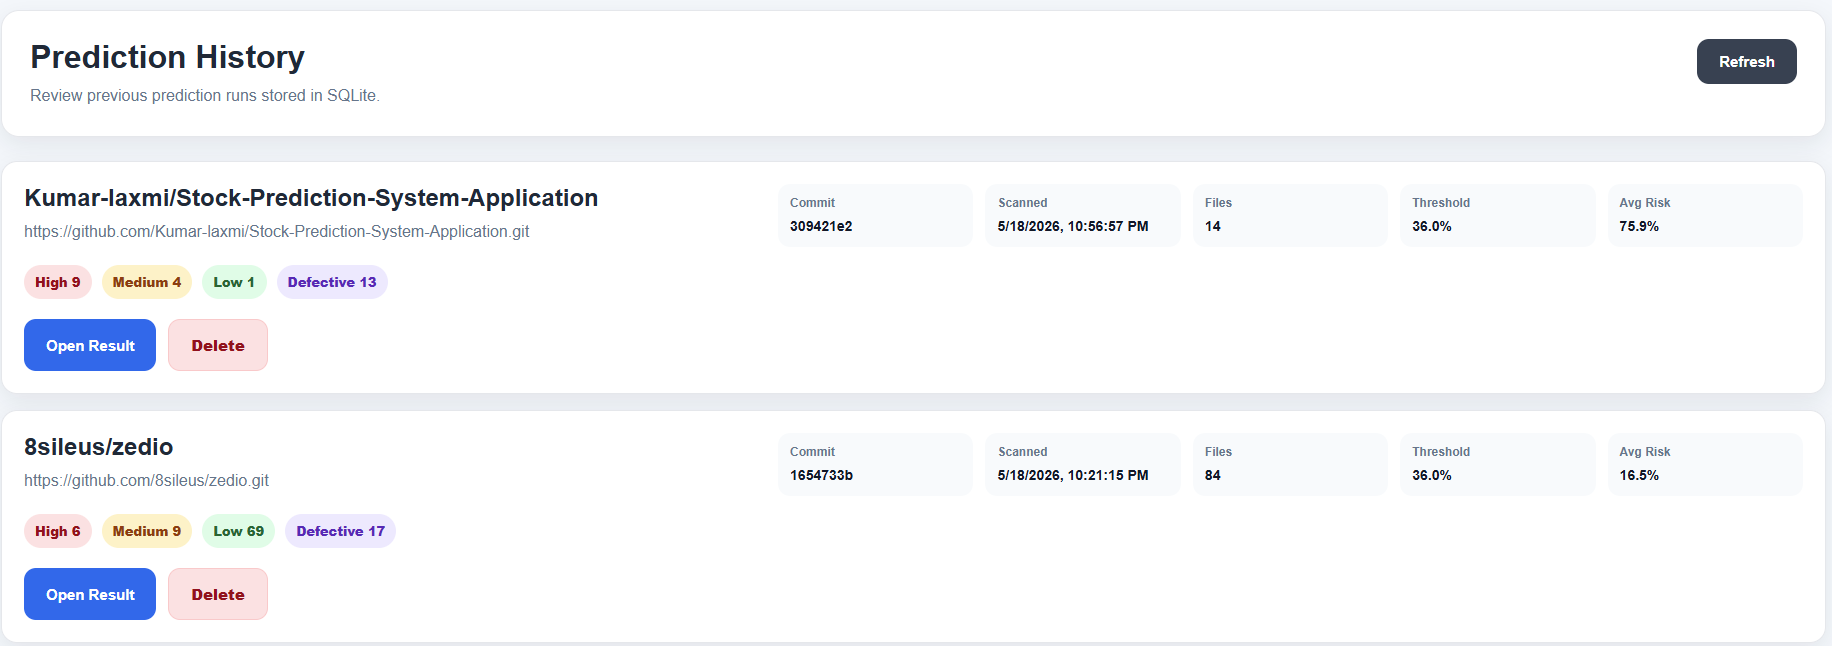
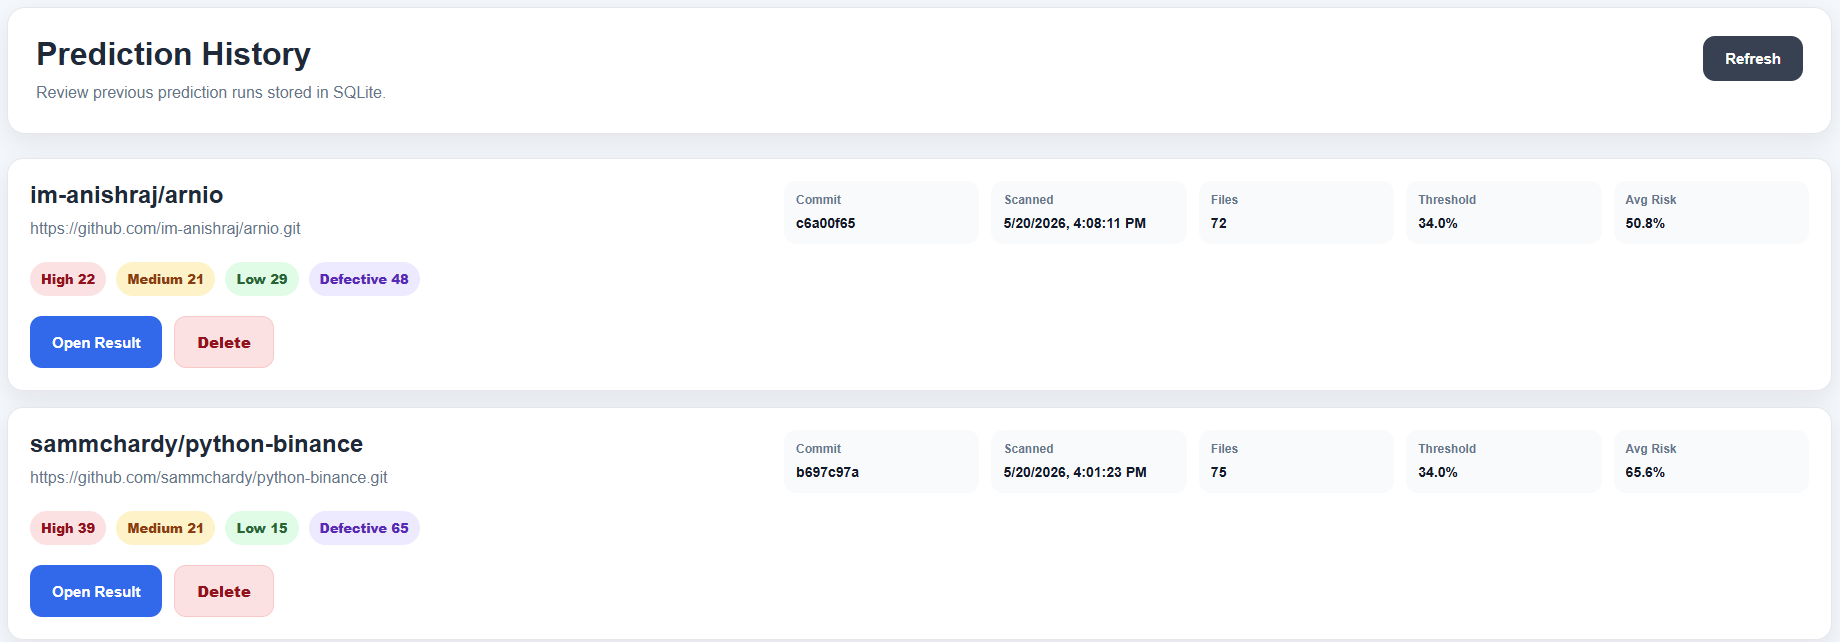
Update Readme

diff --git a/README.md b/README.md
@@ -35,7 +35,8 @@ explanation before the user starts.
 
 The repository input page lets the user enter a GitHub repository URL, choose a
 branch or tag, select a commit, and configure prediction sensitivity. It also
-explains the normal cached clone mode and the request-only PAT clone mode.
+explains the default Personal Access Token request mode and the optional local
+cache mode.
 
 <p align="center">
   <img src="readme-assets/InputPage.png" alt="Repository input page" width="900" />
@@ -74,11 +75,11 @@ results without immediately rerunning the same analysis.
 
 | Step | Description |
 | --- | --- |
-| 1. Repository input | Accepts a GitHub repository URL and loads branches, tags, and commits. |
+| 1. Repository input | Accepts a GitHub repository URL and loads branches, tags, and commits. Branches and tags use Git remote lookup, while commit pages are loaded through the GitHub API for faster pagination. |
 | 2. Commit selection | Lets the user choose the exact commit to analyze. |
-| 3. Metric extraction | Extracts static code metrics and commit-history process metrics from supported files. |
+| 3. Metric extraction | Scans all supported Java, Python, and C++ files in the selected commit, including potential test files. |
 | 4. ML prediction | Predicts file-level defect risk using the trained model. |
-| 5. Explanation | Shows important metric values and plain-language reasoning for each file. |
+| 5. Explanation | Shows SHAP-based metric signals, positive/negative contribution direction, confidence notes, and plain-language reasoning for each file. |
 | 6. Dashboard review | Summarizes risk distribution, highest-risk files, folders, and language-level trends. |
 | 7. History and export | Saves completed runs to SQLite and exports selected results as CSV or PDF. |
 
@@ -89,18 +90,26 @@ the full workflow from repository input to model-backed decision support.
 
 - GitHub repository, branch, tag, and commit selection.
 - File-level defect prediction for Java, Python, and C++.
+- GitHub API commit pagination so large repositories do not need to be cloned
+  just to list commits.
 - Prediction progress status while the backend is analyzing a commit.
 - Configurable prediction sensitivity for adjusting the defect cutoff.
-- Optional PAT request mode for users who do not want a reusable repository
-  mirror cache.
+- Default Personal Access Token request mode for GitHub API requests and
+  temporary public repository cloning without keeping a reusable mirror cache in
+  the user's local machine.
+- Optional local cache mode that stores a reusable mirror cache in the user's
+  local machine for faster repeated repository operations.
 - Risk dashboard with summary cards, charts, high-risk files, and language
   breakdowns.
+- Normal code files and potential test files are separated in the prediction
+  result page. Potential test files are still predicted, but displayed in their
+  own section for clearer review.
 - Search and filtering by file path, language, risk level, prediction label, and
   probability range.
 - CSV and PDF report export for selected prediction rows.
 - Prediction history stored in SQLite.
 - "How It Works" page for non-ML developers and project evaluators.
-- Backend repository caching to reduce repeated GitHub operations.
+- Confidence warnings when one SHAP signal dominates a prediction explanation.
 - Training scripts for building, appending, analyzing, and retraining the model.
 
 ## Tech Stack
@@ -238,6 +247,19 @@ https://github.com/owner/repository.git
 The application also accepts common GitHub HTTPS repository URLs without `.git`
 and normalizes them internally.
 
+## Repository Access Modes
+
+The repository input page supports two access modes.
+
+| Mode | Description | Local storage behavior |
+| --- | --- | --- |
+| Personal Token request mode | Default mode. The user provides a GitHub Personal Access Token for GitHub API commit loading and temporary public repository cloning. This version does not provide private repository prediction. | The repository is cloned into a temporary worktree for prediction, then cleaned after use. The token is not saved in prediction history or returned in API responses. |
+| Local cache mode | Optional mode for repeated runs on the same repository. | A reusable mirror cache is stored in the user's local machine under `%TEMP%\sdp_github_temp_repos\repo_cache`. Temporary prediction worktrees are stored under `%TEMP%\sdp_github_temp_repos\worktrees` and cleaned after prediction. |
+
+Branches and tags are loaded with Git remote lookup. Commit lists are loaded
+through the GitHub API with pagination, so large repositories do not need to be
+cloned just to display commit pages.
+
 ## Supported Languages
 
 The live prediction extractor scans these source files:
@@ -266,6 +288,28 @@ The model uses a shared static metric feature set:
 Python and C++ metrics are approximated into the same feature structure so that
 the trained model can score multiple languages consistently.
 
+## Prediction Result Interpretation
+
+The result page separates files into two review groups:
+
+| Section | Meaning |
+| --- | --- |
+| Normal Code Files | Supported source files that do not match common test-folder or test-file naming patterns. |
+| Potential Test Files | Files that are still scanned and predicted, but matched conservative hints such as `test`, `tests`, `.spec`, `.test`, or common test filename patterns. |
+
+Potential test files are not removed because automatic test detection can be
+wrong. They are separated so reviewers can interpret their risk scores with more
+context.
+
+The metric explanation uses SHAP-style contribution signals:
+
+- **Increases score** means the metric pushed the model toward a higher defect
+  risk score for that file.
+- **Lowers score** means the metric pushed the model toward a lower defect risk
+  score for that file.
+- **Confidence note** appears when one metric dominates the explanation, which
+  means the prediction may depend heavily on a single signal.
+
 ## Machine Learning Setup
 
 The app expects trained model artifacts inside:
@@ -280,6 +324,7 @@ Important files:
 github_defect_prediction_model.pkl
 github_model_features.pkl
 github_prediction_threshold.pkl
+github_feature_transform_stats.pkl
 ```
 
 If these files already exist, you can run the application without retraining.
@@ -372,6 +417,11 @@ The training script compares Logistic Regression, Random Forest, and XGBoost. It
 uses hyperparameter search and threshold tuning, then saves the best model and
 evaluation outputs.
 
+Process-history features are capped, transformed with `log1p`, and scaled using
+training-set statistics before model training. This reduces the chance that one
+large process metric, such as files changed together in a previous commit,
+dominates the prediction.
+
 ### Analyze Feature Importance
 
 ```powershell
@@ -393,6 +443,10 @@ ml_workspace/results/github_feature_importance.csv
 ml_workspace/results/github_top_10_features.csv
 ml_workspace/results/github_training_metadata.json
 ```
+
+After training, review `github_feature_importance.csv` and
+`github_top_10_features.csv`. If one feature dominates the model importance, the
+model may be relying too strongly on a single signal and should be reviewed.
 
 After retraining, restart the backend so it loads the latest model files.
 
